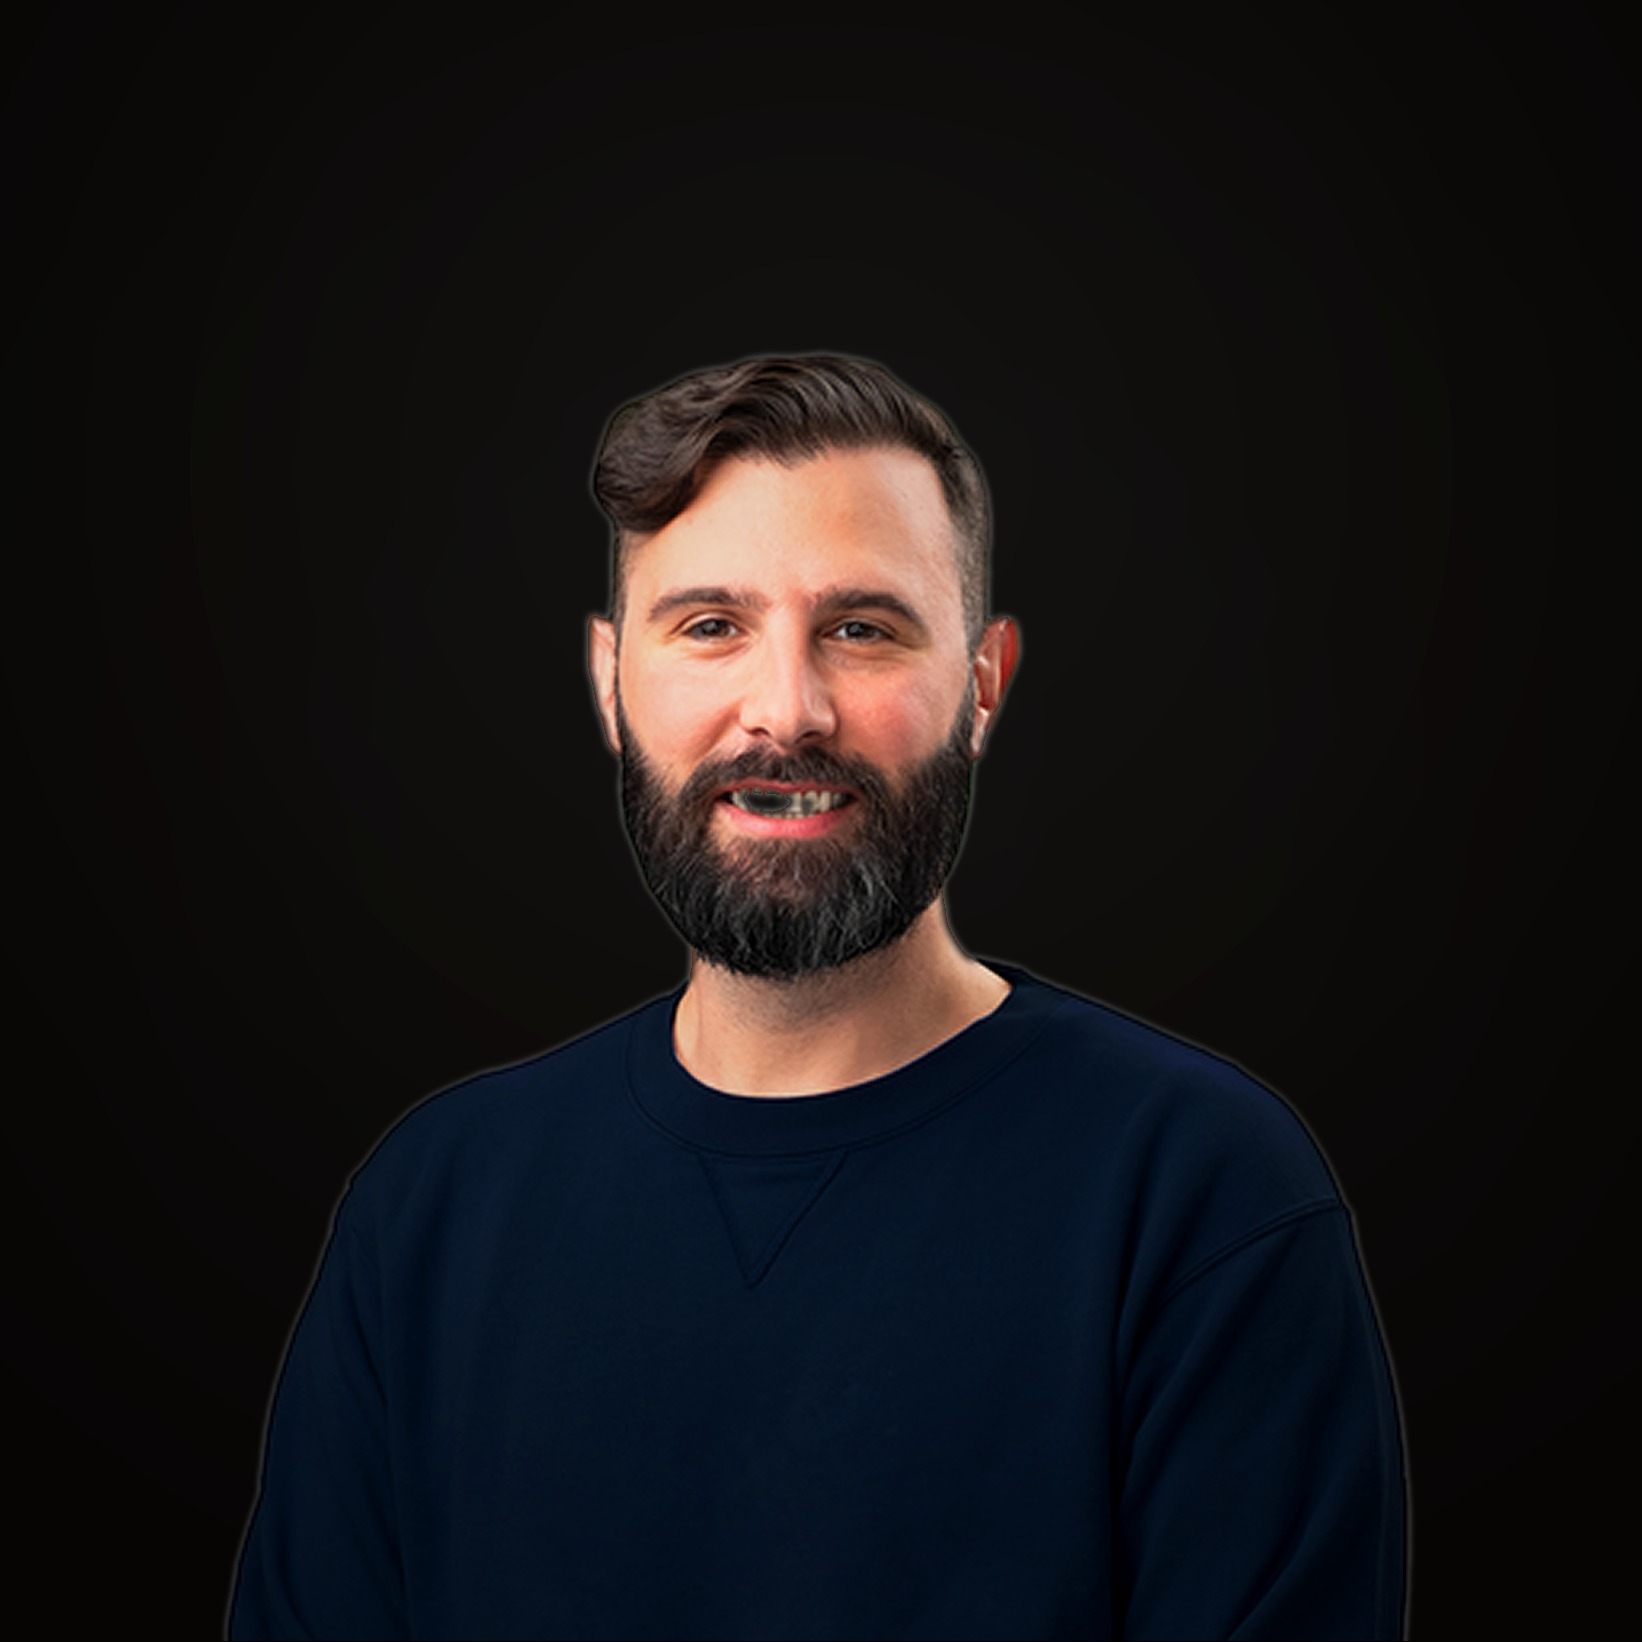
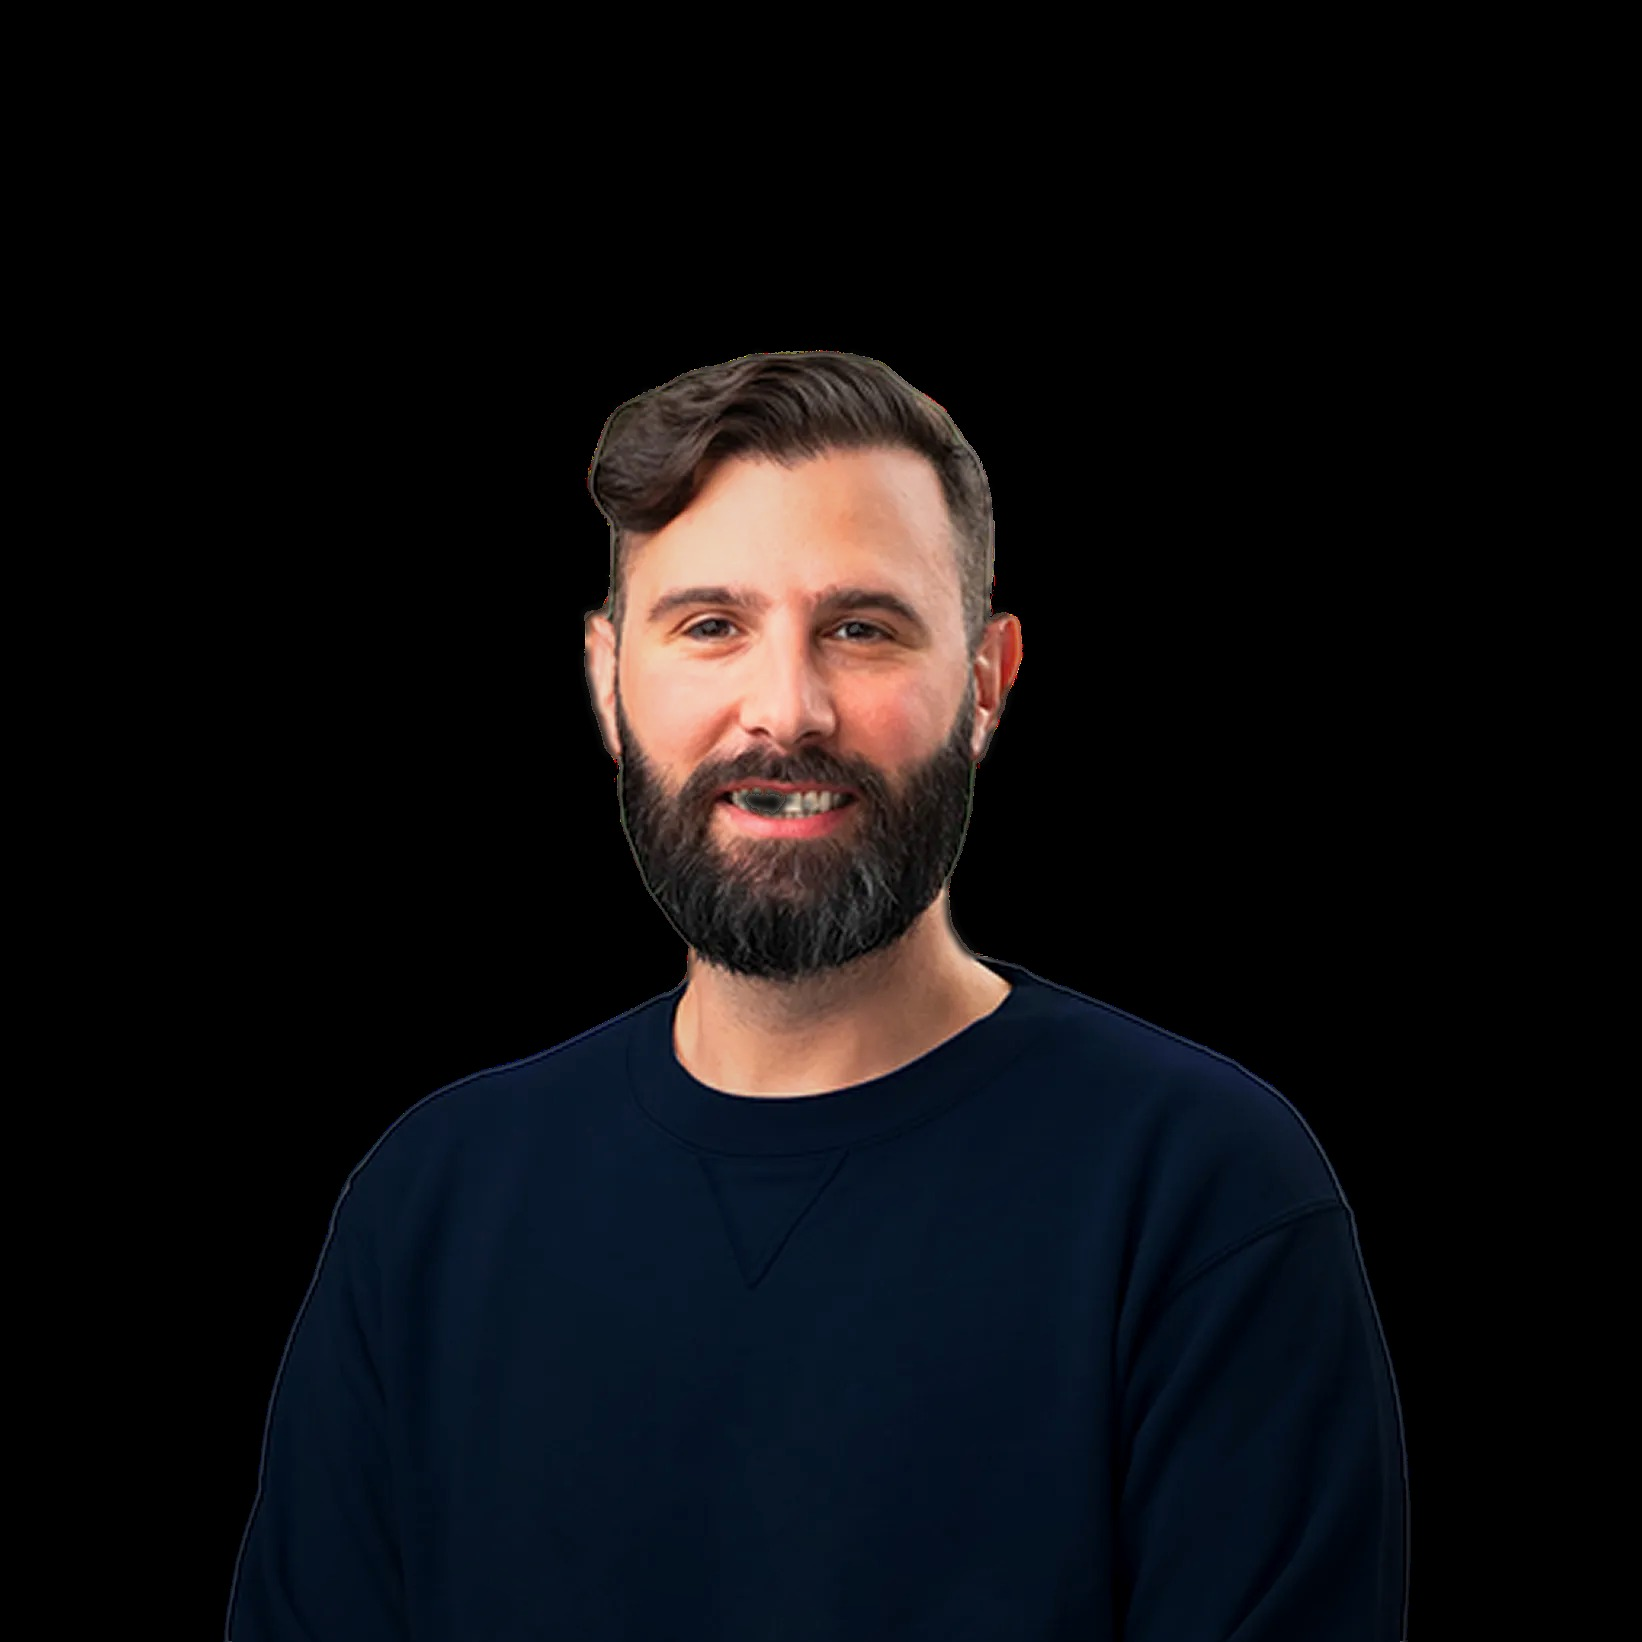
Fix preloader name to Tom Ferrari and update profile image
- Change "Tommaso Ferrari" to "Tom Ferrari" in Preloader
- Update profile image with latest version

diff --git a/src/components/sections/Preloader.tsx b/src/components/sections/Preloader.tsx
@@ -112,7 +112,7 @@ export default function Preloader({ isLoading, onComplete }: PreloaderProps) {
             color: "var(--color-text-primary)",
           }}
         >
-          Tommaso Ferrari
+          Tom Ferrari
         </div>
       </div>
     </div>
